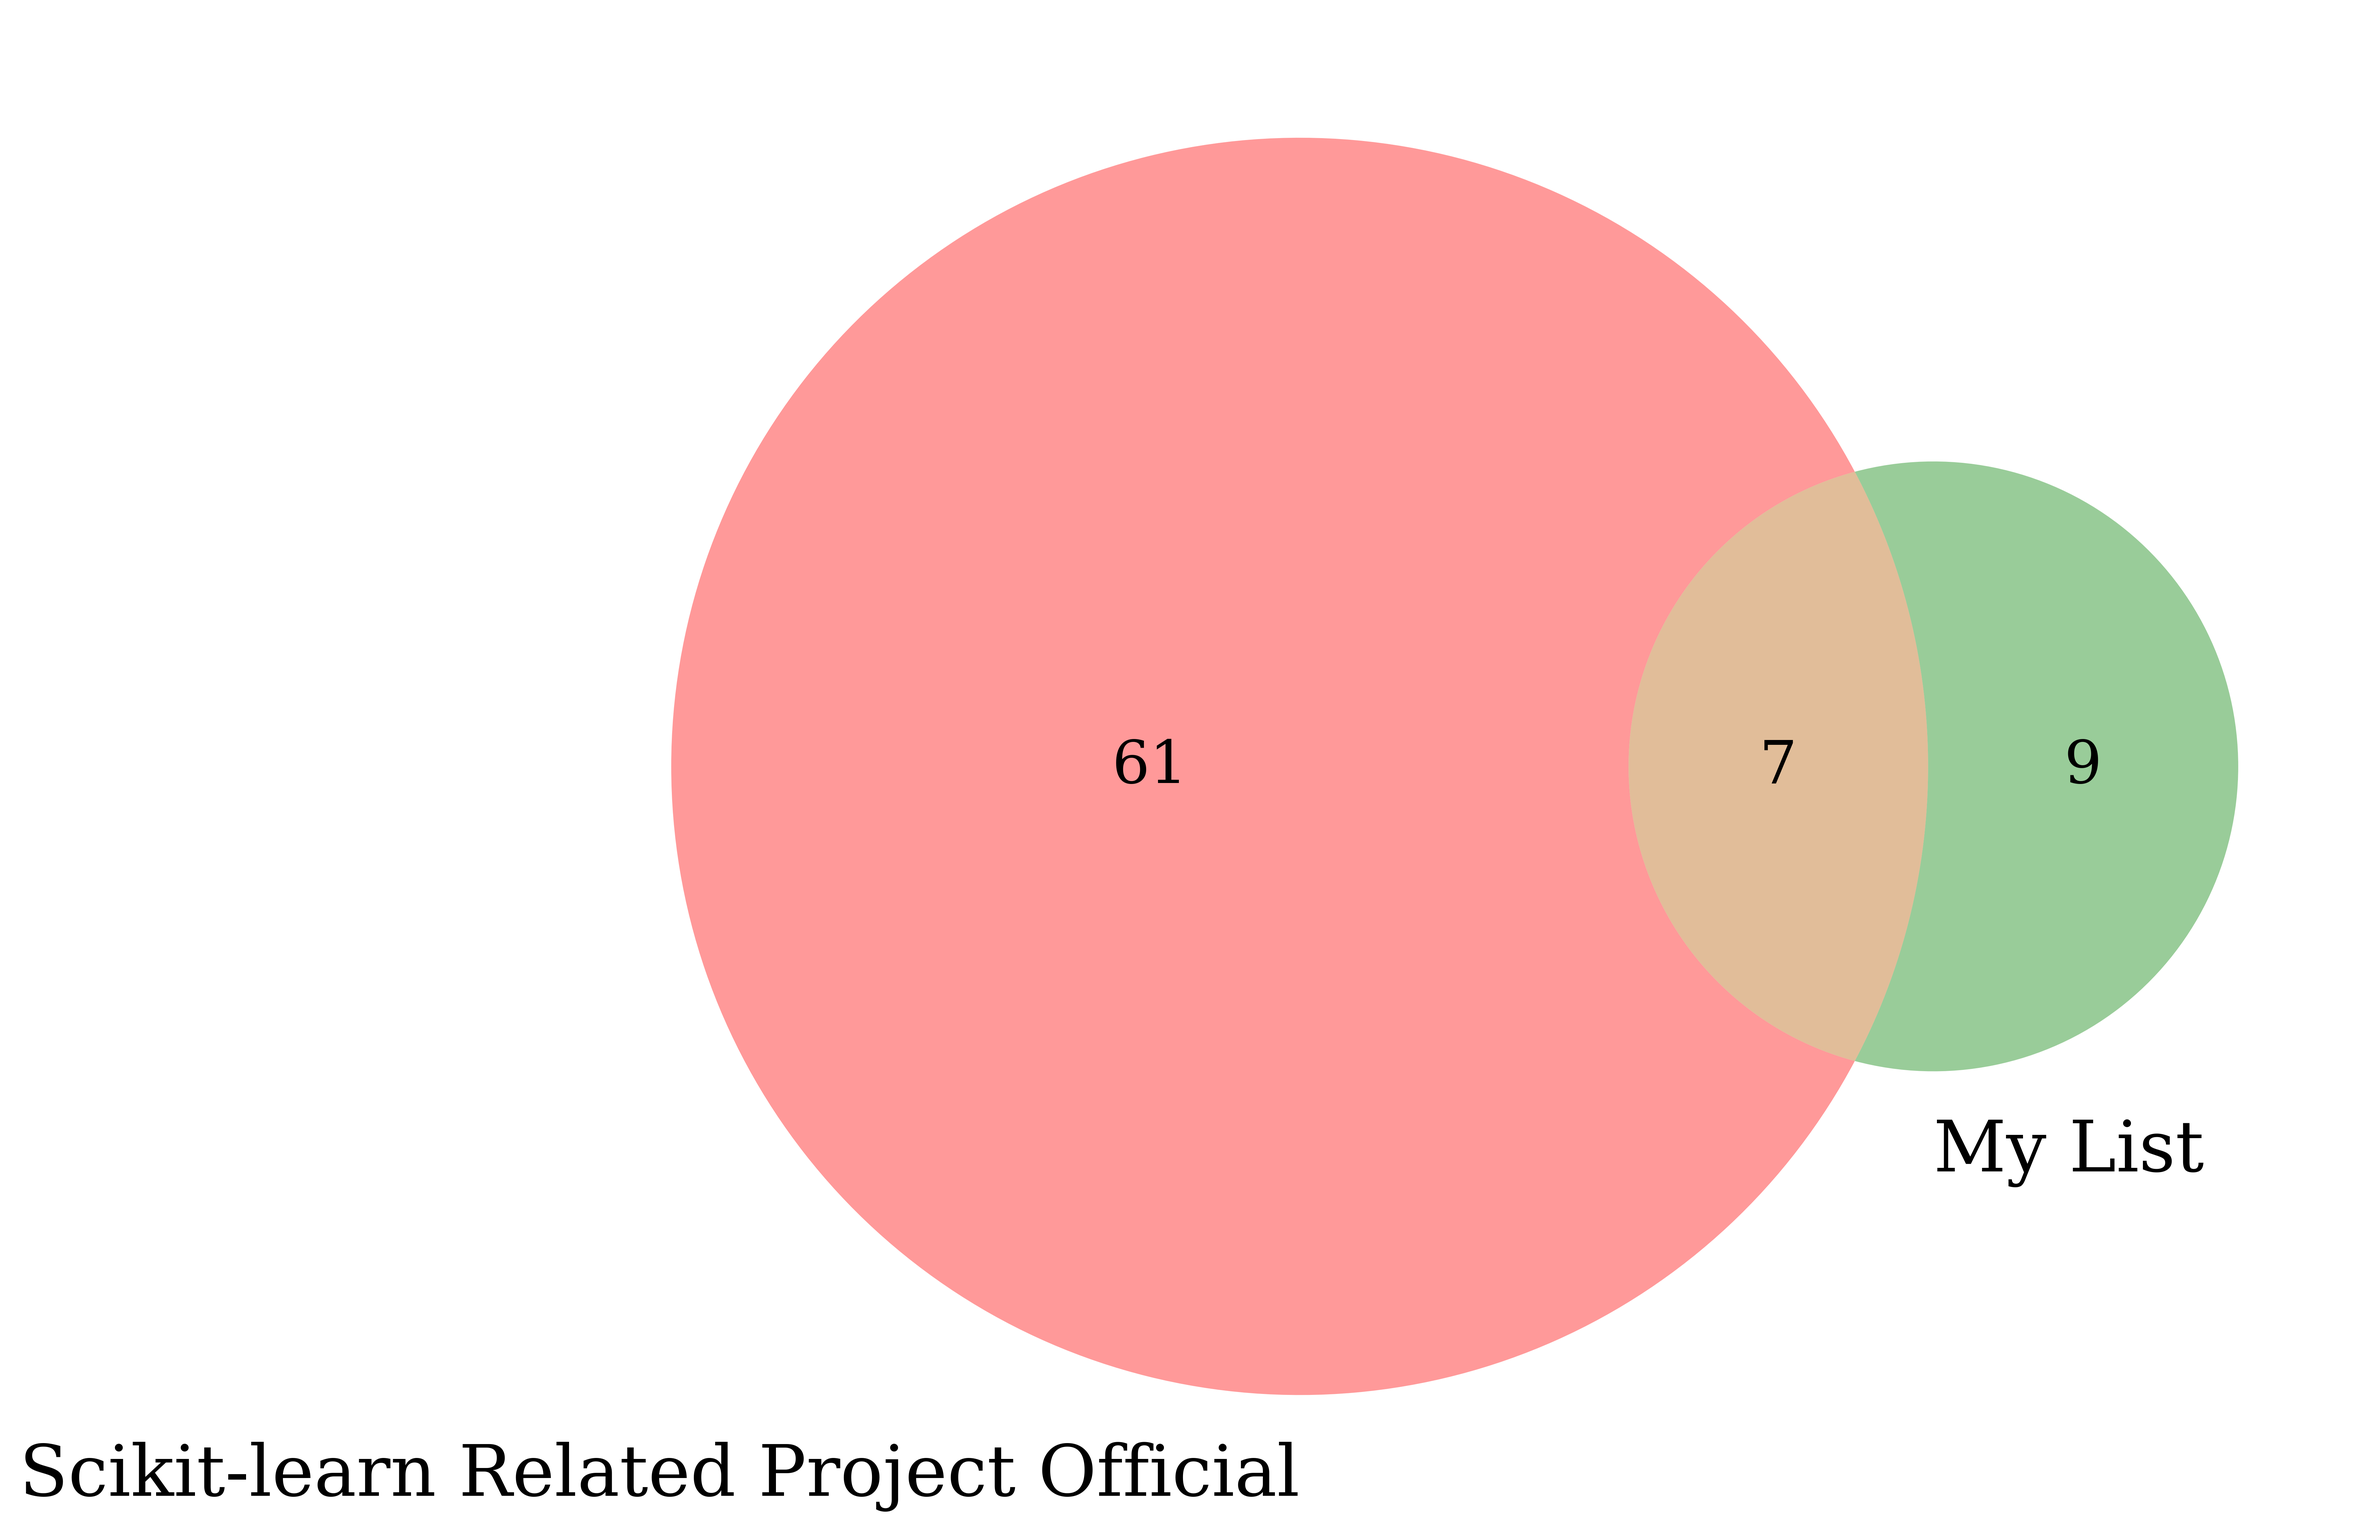
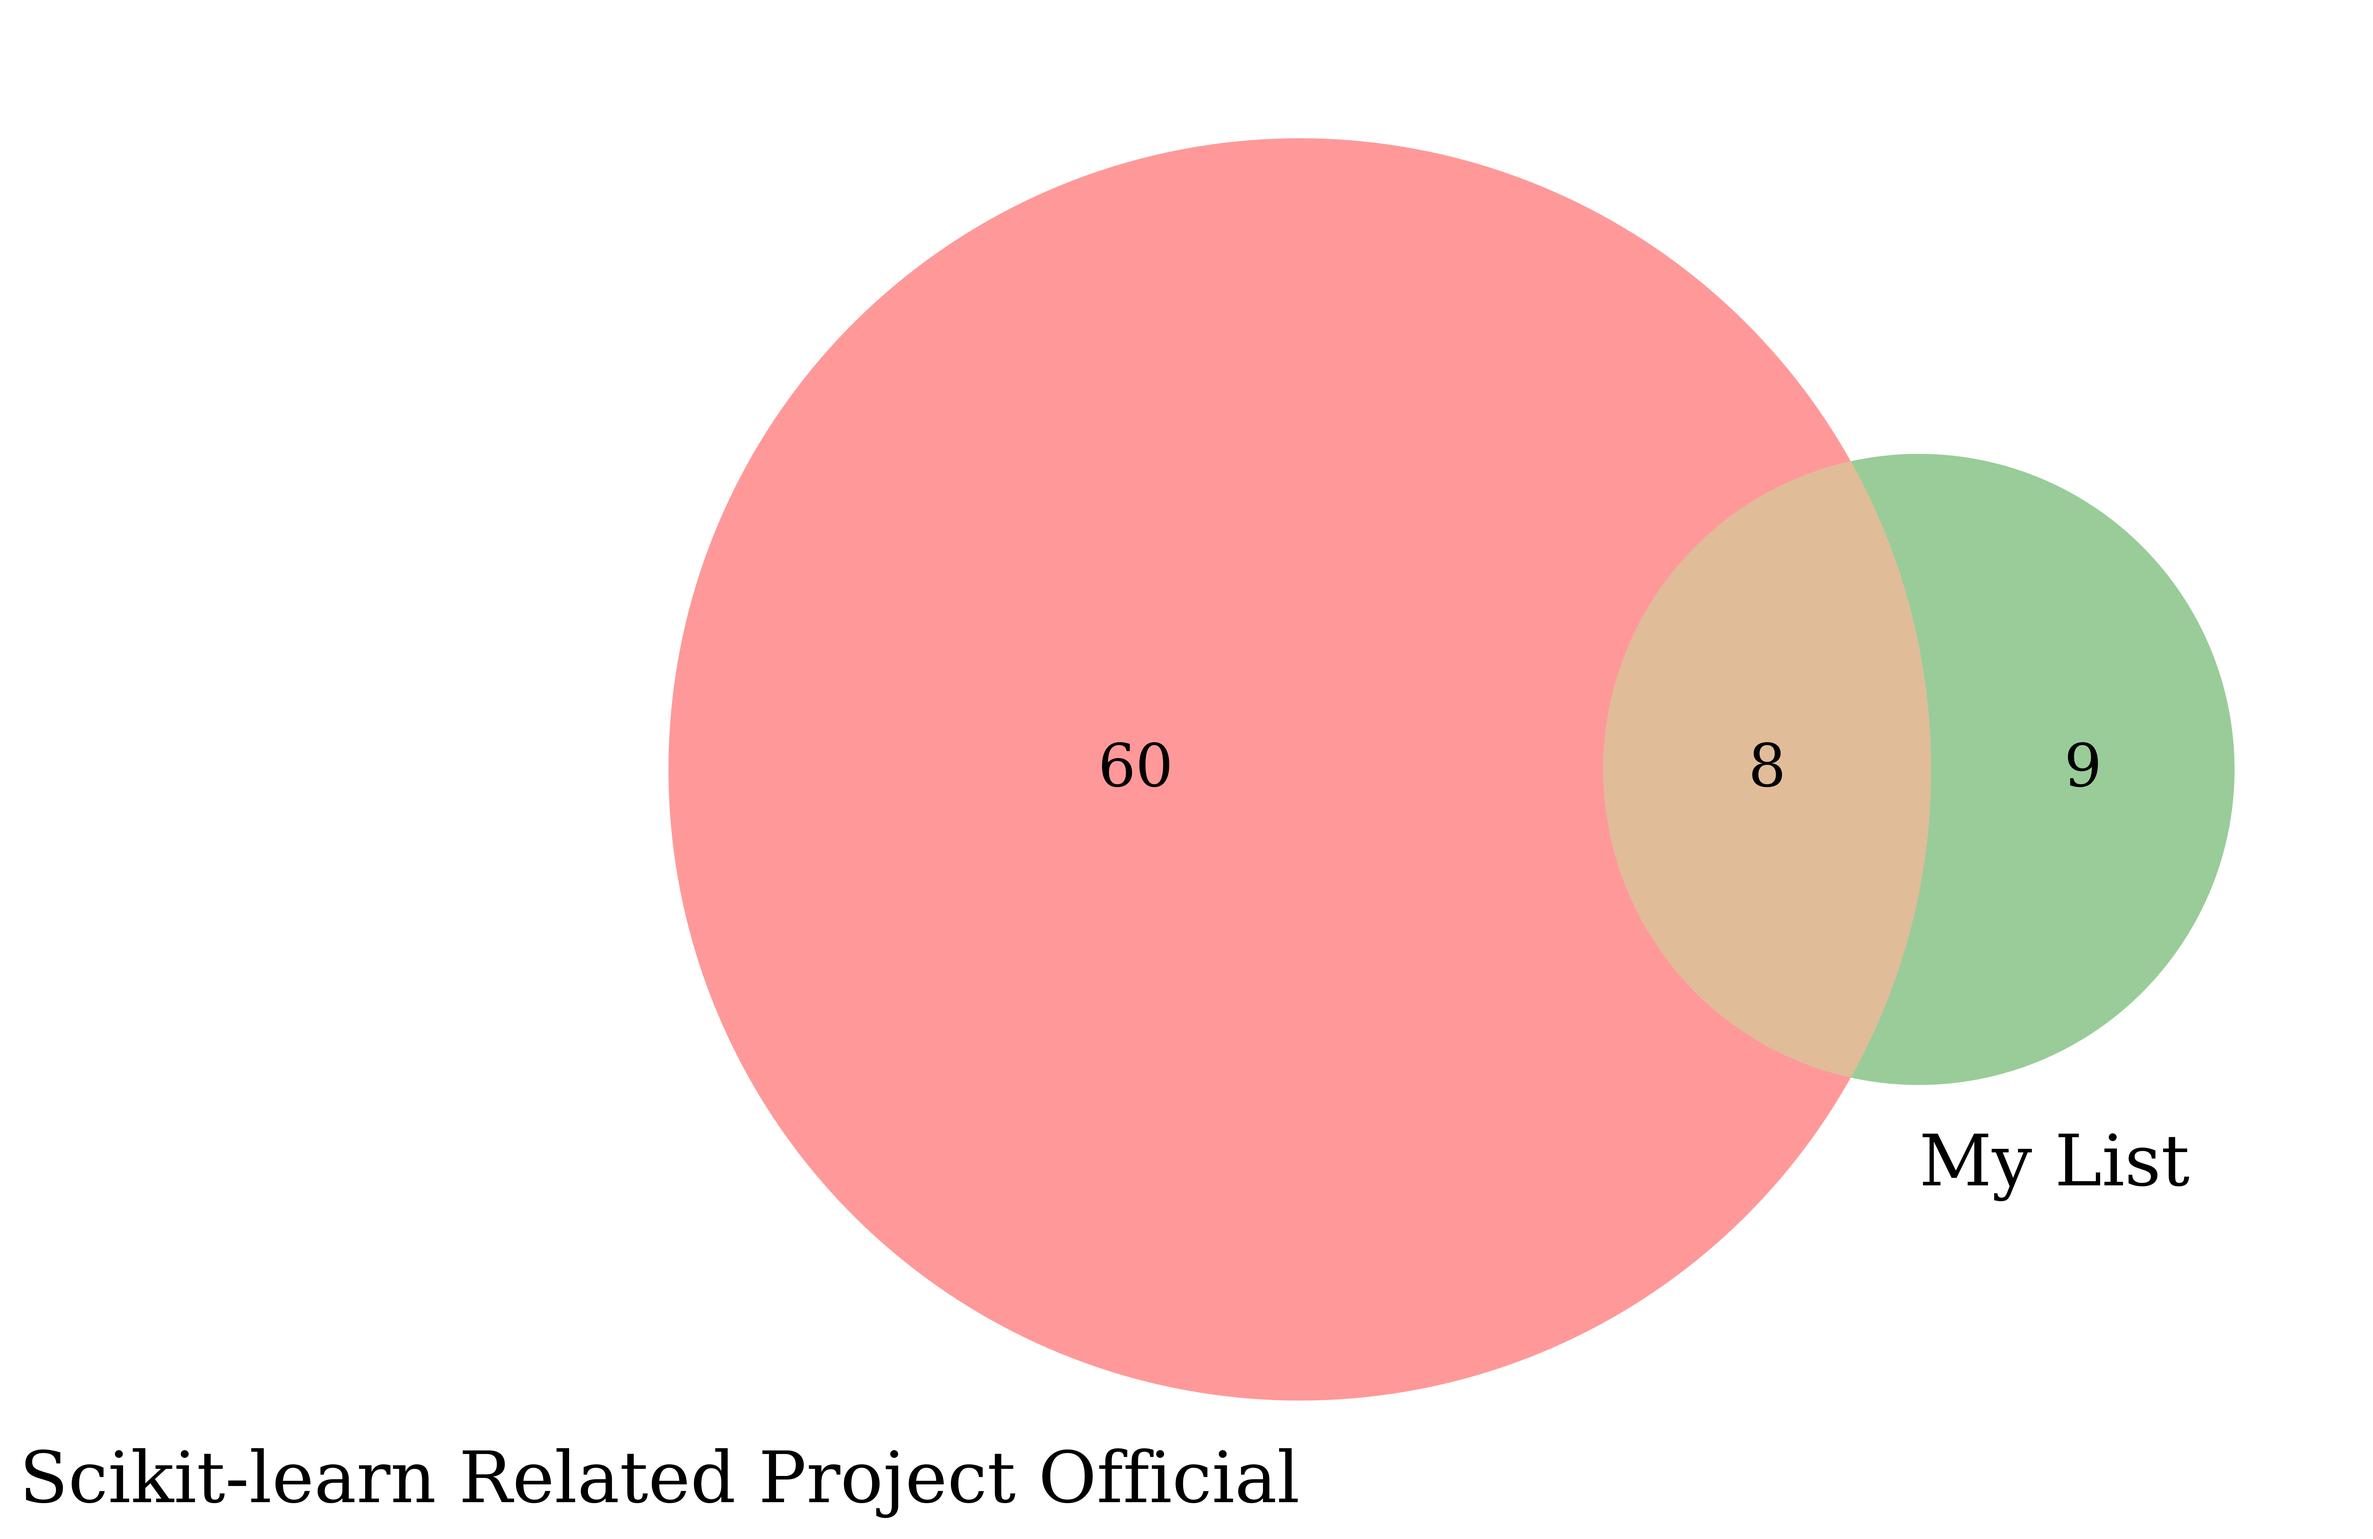
feat(data/venn.png-scikit_learn_related_post.md): add scikit-opt library to my list, rebuilt data

diff --git a/scikit_learn_related_post.md b/scikit_learn_related_post.md
@@ -17,14 +17,14 @@ I have found a few projects both on and off the list from SciKit's official aggr
 Below is my list of just the differences from the above venn diagram:
 
 * [pdpipe](https://github.com/pdpipe/pdpipe)
-* [pulearn](https://github.com/pulearn/pulearn)
-* [scikit-multiflow](https://github.com/scikit-multiflow/scikit-multiflow)
-* [pymc-learn](https://github.com/pymc-learn/pymc-learn/)
-* [ml-insights](https://github.com/numeristical/introspective)
-* [fancyimpute](https://github.com/iskandr/fancyimpute)
-* [feature_engine](https://github.com/solegalli/feature_engine)
-* [metric-learn](https://github.com/scikit-learn-contrib/metric-learn)
 * [autoimpute](https://github.com/kearnz/autoimpute)
+* [feature_engine](https://github.com/solegalli/feature_engine)
+* [scikit-multiflow](https://github.com/scikit-multiflow/scikit-multiflow)
+* [ml-insights](https://github.com/numeristical/introspective)
+* [metric-learn](https://github.com/scikit-learn-contrib/metric-learn)
+* [pymc-learn](https://github.com/pymc-learn/pymc-learn/)
+* [pulearn](https://github.com/pulearn/pulearn)
+* [fancyimpute](https://github.com/iskandr/fancyimpute)
 
 Finally the full list of projects:
 
@@ -44,3 +44,4 @@ Finally the full list of projects:
 * [ml-insights](https://github.com/numeristical/introspective)
 * [yellowbrick](https://github.com/districtdatalabs/yellowbrick)
 * [autoimpute](https://github.com/kearnz/autoimpute)
+* [scikit-optimize](https://scikit-optimize.github.io/stable/)
